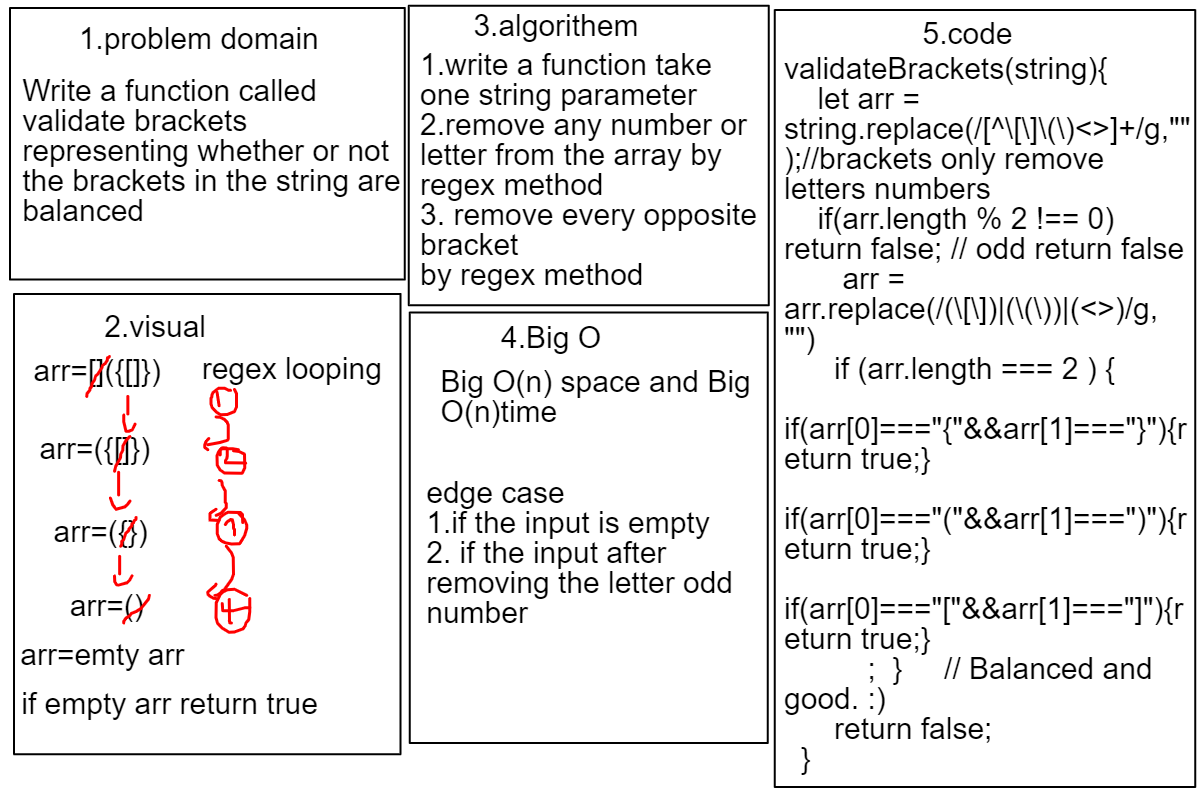
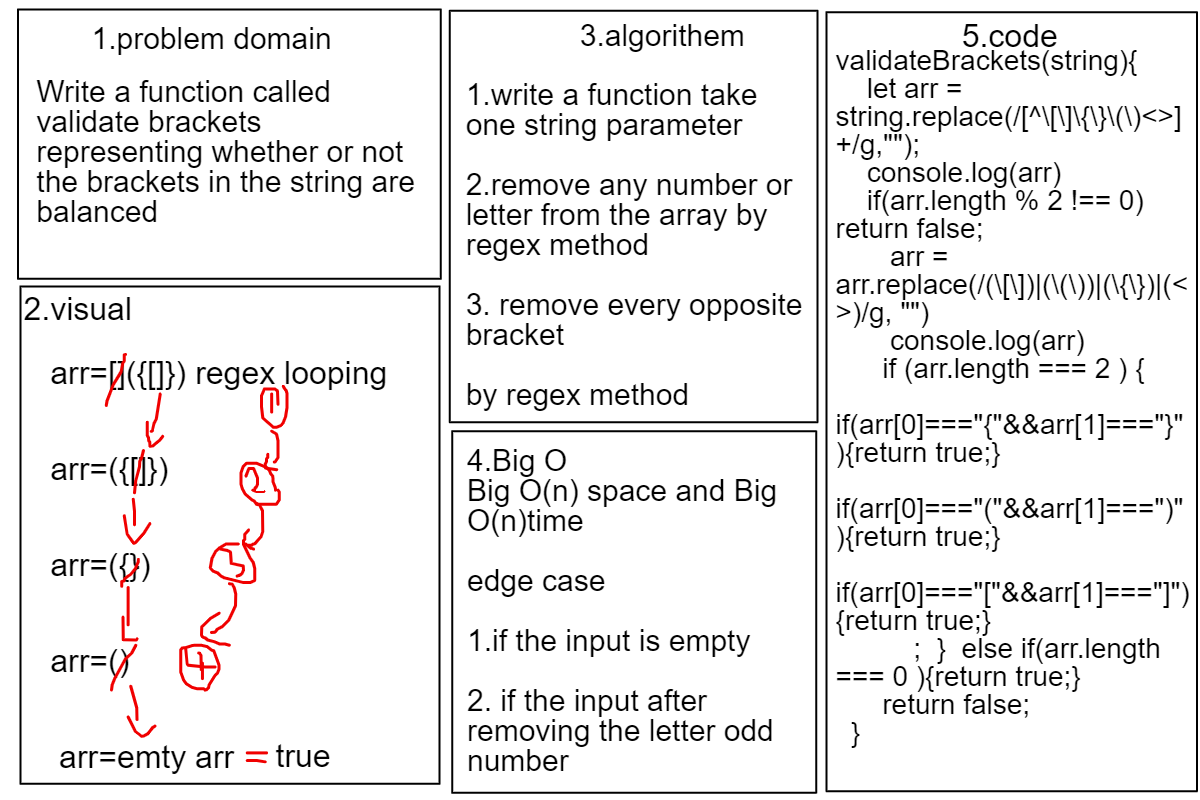
fixing lab 13

Changed region(s): [[0.0, 0.0, 1.0, 1.0]]

diff --git a/javascript-401/code-challenge13/__test__/queues.test.js b/javascript-401/code-challenge13/__test__/queues.test.js
@@ -3,33 +3,75 @@
 const queues = require("../lib/queues");
 
 describe("queues tests", () => {
-  it("1", () => {
+  it("1-{}", () => {
     const qq = new queues();
     
    
-    expect(qq.validateBrackets("1")).toBe(false);
+    expect(qq.validateBrackets("{}")).toBe(true);
   });
-  it("()[[Extra Characters]]", () => {
+  it("2-{}(){}", () => {
+    const qq = new queues();
+    
+   
+    expect(qq.validateBrackets("{}(){}")).toBe(true);
+  });
+  it("3-()[[Extra Characters]]", () => {
     const qq = new queues();
     
    
     expect(qq.validateBrackets("()[[Extra Characters]]")).toBe(true);
   });
-  it("{}{Code}[Fellows](())", () => {
+  it("4-(){}[[]]", () => {
+    const qq = new queues();
+    
+   
+    expect(qq.validateBrackets("(){}[[]]")).toBe(true);
+  });
+  it("5-{}{Code}[Fellows](())", () => {
     const qq = new queues();
     
    
     expect(qq.validateBrackets("{}{Code}[Fellows](())")).toBe(true);
   });
   
-    it("[({}]", () => {
+
+    it("6-[({}]", () => {
       const qq = new queues();
       
      
       expect(qq.validateBrackets("[({}]")).toBe(false);
     });
-  
-  
+    
+    it("7-(](", () => {
+      const qq = new queues();
+      
+     
+      expect(qq.validateBrackets("(](")).toBe(false);
+    });
+    it("8-{(})", () => {
+      const qq = new queues();
+      
+     
+      expect(qq.validateBrackets("{(})")).toBe(false);
+    });
+    it("9-{", () => {
+      const qq = new queues();
+      
+     
+      expect(qq.validateBrackets("{")).toBe(false);
+    });
+    it("10-)", () => {
+      const qq = new queues();
+      
+     
+      expect(qq.validateBrackets(")")).toBe(false);
+    });
+    it("11-[}", () => {
+      const qq = new queues();
+      
+     
+      expect(qq.validateBrackets("[}")).toBe(false);
+    });
   
 });
 

diff --git a/javascript-401/code-challenge13/lib/queues.js b/javascript-401/code-challenge13/lib/queues.js
@@ -39,14 +39,16 @@ currentnode=currentnode.next}}
     return this.front===null
   }
   validateBrackets(string){
-    let arr = string.replace(/[^\[\]\(\)<>]+/g,"");//brackets only remove letters numbers
-    if(arr.length % 2 !== 0) return false; // odd return false
-       arr = arr.replace(/(\[\])|(\(\))|(<>)/g, "")
+    let arr = string.replace(/[^\[\]\{\}\(\)<>]+/g,"");
+    console.log(arr)
+    if(arr.length % 2 !== 0) return false; 
+       arr = arr.replace(/(\[\])|(\(\))|(\{\})|(<>)/g, "")
+       console.log(arr)
       if (arr.length === 2 ) { 
           if(arr[0]==="{"&&arr[1]==="}"){return true;}
           if(arr[0]==="("&&arr[1]===")"){return true;}
           if(arr[0]==="["&&arr[1]==="]"){return true;}
-          ;  }     // Balanced and good. :)
+          ;  }  else if(arr.length === 0 ){return true;}   
       return false;  
   }
   

diff --git a/javascript-401/code-challenge13/index.js b/javascript-401/code-challenge13/index.js
@@ -1,6 +1,7 @@
 "use strict";
 const AnimalShelter = require("./lib/queues");
 const qq = new AnimalShelter();
+console.log(qq.validateBrackets("{}{Code}[Fellows](())"))
 
 
 
